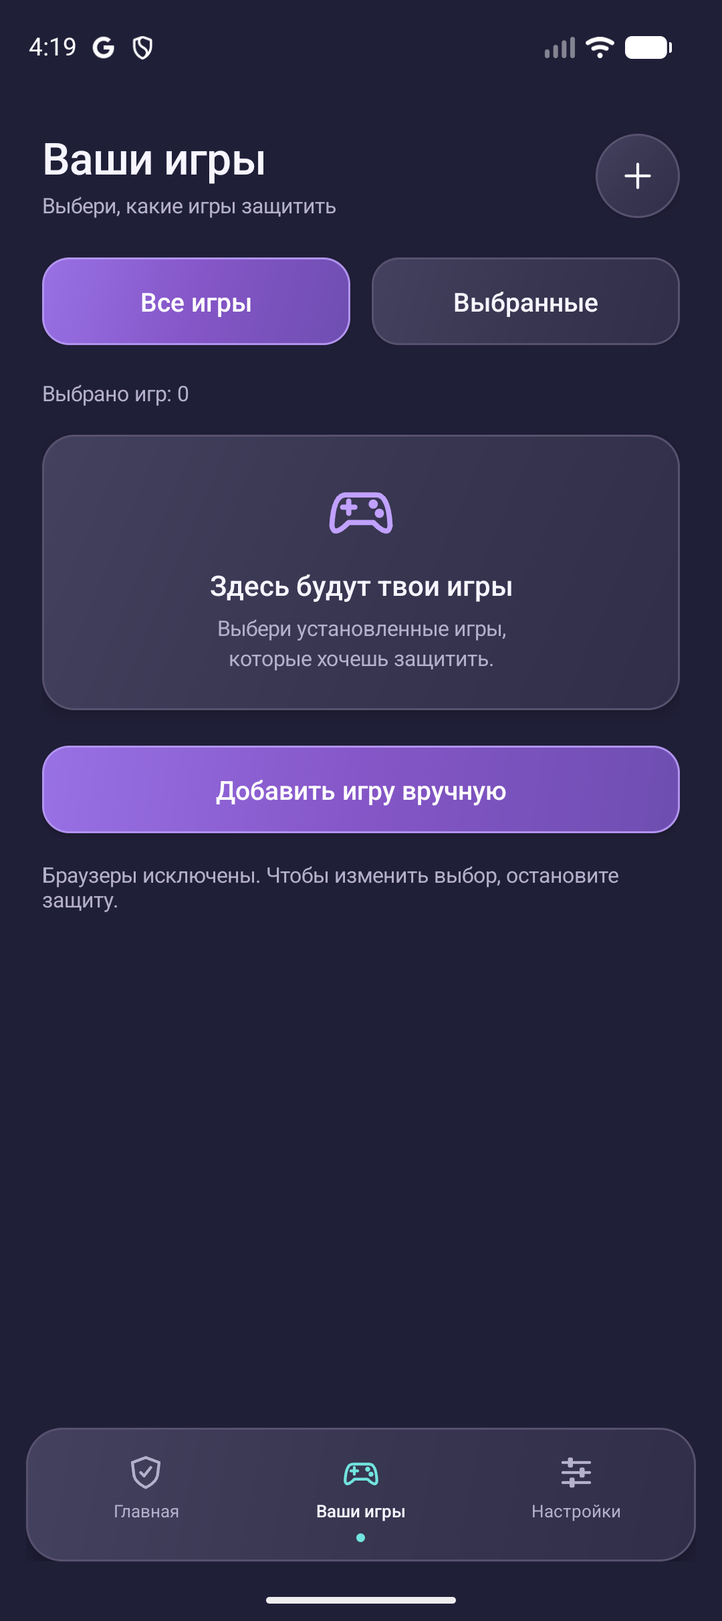
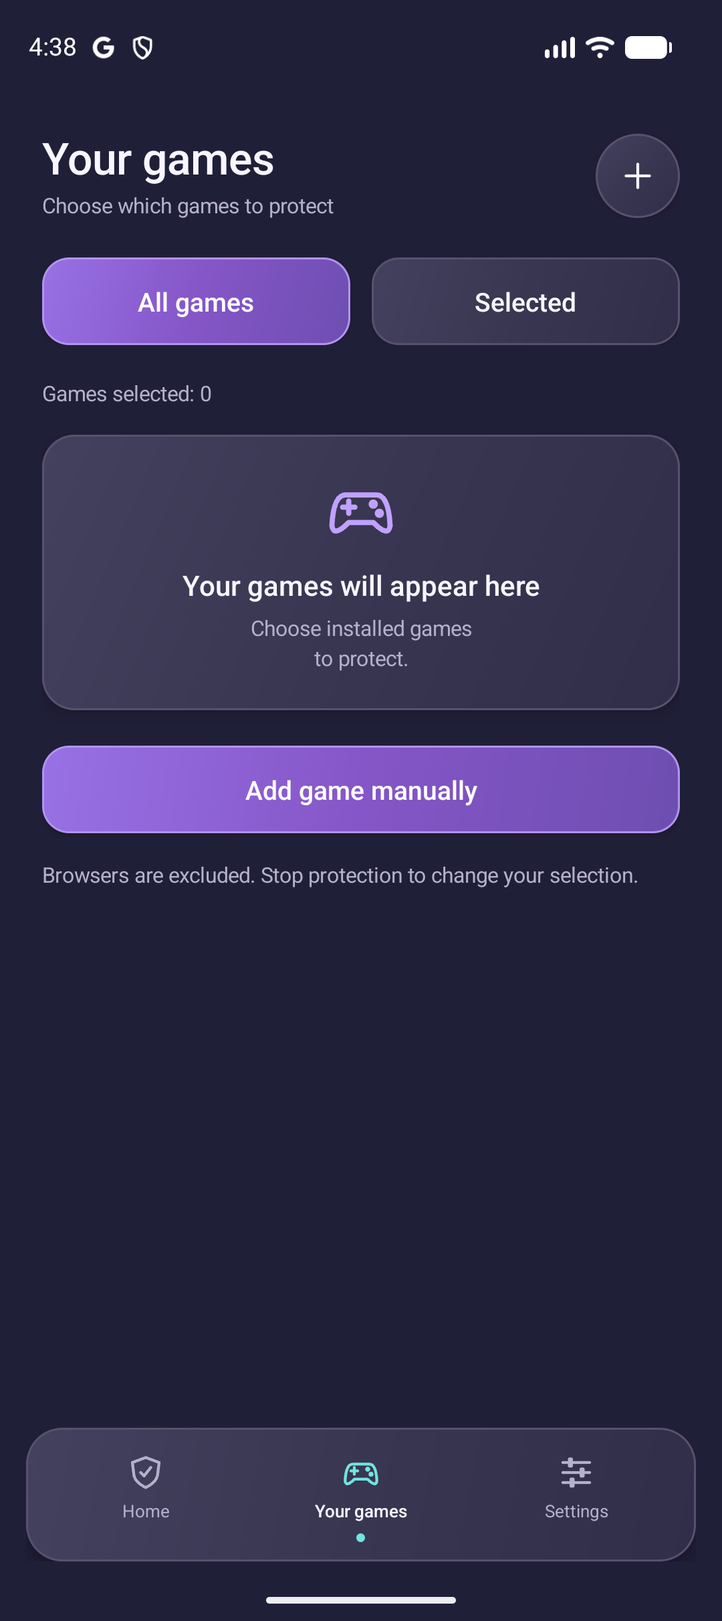
Add English and Russian localization with Android language support

diff --git a/app/src/main/java/com/skensel/stopad/AdVpnService.java b/app/src/main/java/com/skensel/stopad/AdVpnService.java
@@ -40,29 +40,29 @@ public final class AdVpnService extends VpnService {
         try {
             startForeground(1, notification(false));
             Set<String> games = GameCatalog.selected(this);
-            if (games.isEmpty()) throw new IOException("Сначала выберите хотя бы одну установленную игру");
-            if (VpnService.prepare(this) != null) throw new IOException("Нужно разрешение Android на VPN");
+            if (games.isEmpty()) throw new IOException(getString(R.string.vpn_no_games));
+            if (VpnService.prepare(this) != null) throw new IOException(getString(R.string.vpn_permission_required));
             var cm = (ConnectivityManager) getSystemService(CONNECTIVITY_SERVICE);
             Network network = cm.getActiveNetwork();
-            if (network == null) throw new IOException("Нет подключения к сети");
+            if (network == null) throw new IOException(getString(R.string.vpn_no_network));
             var link = cm.getLinkProperties(network);
             if (Build.VERSION.SDK_INT >= 28 && link != null && link.isPrivateDnsActive())
-                throw new IOException("Для DNS-прототипа выключите Private DNS в настройках Android");
+                throw new IOException(getString(R.string.vpn_private_dns));
             BlocklistSnapshot list = BlocklistRepository.snapshot;
             if (list == null) {
                 BlocklistRepository.initialize(this);
-                throw new IOException("Список блокировки загружается. Повторите включение через несколько секунд");
+                throw new IOException(getString(R.string.vpn_list_loading));
             }
             DomainPolicy rules = new DomainPolicy(list.rules, BlocklistRepository.seed(this),
                     getSharedPreferences("games", MODE_PRIVATE).getStringSet("domain_exceptions", Collections.emptySet()));
-            Builder builder = new Builder().setSession("StopAD • игры")
+            Builder builder = new Builder().setSession(getString(R.string.vpn_session))
                     .addAddress("10.111.0.1", 32).addDnsServer("10.111.0.2")
                     .addRoute("10.111.0.2", 32).allowFamily(OsConstants.AF_INET6)
                     .setMtu(1500).setBlocking(false).setUnderlyingNetworks(new Network[]{network})
                     .setConfigureIntent(PendingIntent.getActivity(this, 0, new Intent(this, MainActivity.class), PendingIntent.FLAG_IMMUTABLE));
             for (String game : games) builder.addAllowedApplication(game);
             ParcelFileDescriptor tunnel = builder.establish();
-            if (tunnel == null) throw new IOException("Android не создал VPN-интерфейс");
+            if (tunnel == null) throw new IOException(getString(R.string.vpn_establish_failed));
             Session session;
             try { session = new Session(tunnel, rules, network, list.sha256, this); }
             catch (IOException e) { tunnel.close(); throw e; }
@@ -72,7 +72,7 @@ public final class AdVpnService extends VpnService {
             getSystemService(NotificationManager.class).notify(1, notification(true));
             new Thread(() -> pump(session), "stopad-dns").start();
         } catch (Exception e) {
-            stopSession(e.getMessage() == null ? "Не удалось запустить VPN" : e.getMessage());
+            stopSession(e.getMessage() == null ? getString(R.string.start_failed) : e.getMessage());
             stopSelf();
         }
         return START_NOT_STICKY;
@@ -80,14 +80,14 @@ public final class AdVpnService extends VpnService {
 
     private Notification notification(boolean running) {
         NotificationManager manager = getSystemService(NotificationManager.class);
-        manager.createNotificationChannel(new NotificationChannel("protection", "Защита игр", NotificationManager.IMPORTANCE_LOW));
+        manager.createNotificationChannel(new NotificationChannel("protection", getString(R.string.ui_protection), NotificationManager.IMPORTANCE_LOW));
         PendingIntent open = PendingIntent.getActivity(this, 0, new Intent(this, MainActivity.class), PendingIntent.FLAG_IMMUTABLE);
         PendingIntent stop = PendingIntent.getService(this, 1, new Intent(this, AdVpnService.class).setAction(STOP), PendingIntent.FLAG_IMMUTABLE);
         return new Notification.Builder(this, "protection").setSmallIcon(R.drawable.ic_notification)
-                .setContentTitle(running ? "StopAD • фильтрация DNS игр" : "StopAD • запуск защиты")
-                .setContentText(running && !online() ? "Нет сети • ожидаем подключение" : "Браузеры исключены • нажмите, чтобы открыть")
+                .setContentTitle(running ? getString(R.string.vpn_notification_running) : getString(R.string.vpn_notification_starting))
+                .setContentText(running && !online() ? getString(R.string.waiting_network) : getString(R.string.vpn_notification_body))
                 .setContentIntent(open).setOngoing(true)
-                .addAction(new Notification.Action.Builder(null, "Остановить", stop).build()).build();
+                .addAction(new Notification.Action.Builder(null, getString(R.string.vpn_notification_stop), stop).build()).build();
     }
 
     private void pump(Session s) {
@@ -101,7 +101,7 @@ public final class AdVpnService extends VpnService {
                 if (s.closed.get()) break;
                 if (ready == 0) continue;
                 if ((poll.revents & (OsConstants.POLLERR | OsConstants.POLLHUP | OsConstants.POLLNVAL)) != 0)
-                    throw new IOException("VPN-интерфейс закрыт");
+                    throw new IOException(getString(R.string.vpn_interface_closed));
                 if ((poll.revents & OsConstants.POLLIN) == 0) continue;
                 int n = s.input.read(buffer);
                 if (n < 0) throw new EOFException();
@@ -120,7 +120,7 @@ public final class AdVpnService extends VpnService {
             }
         } catch (Exception e) {
             if (!s.closed.get()) main.post(() -> {
-                if (current == s) { stopSession("VPN остановлен из-за ошибки интерфейса"); stopSelf(); }
+                if (current == s) { stopSession(getString(R.string.vpn_interface_error)); stopSelf(); }
             });
         }
     }
@@ -150,7 +150,7 @@ public final class AdVpnService extends VpnService {
                 }
                 LinkProperties link = preferred == null ? null : cm.getLinkProperties(preferred);
                 if (Build.VERSION.SDK_INT >= 28 && link != null && link.isPrivateDnsActive()) {
-                    stopSession("Private DNS включён. Выключите его и запустите защиту снова"); stopSelf(); return;
+                    stopSession(getString(R.string.vpn_private_dns_enabled)); stopSelf(); return;
                 }
                 s.switchNetwork(preferred);
                 setUnderlyingNetworks(preferred == null ? new Network[0] : new Network[]{preferred});
@@ -215,7 +215,7 @@ public final class AdVpnService extends VpnService {
             if(tcpReply==null) s.send(packet.reply(response)); else tcpReply.accept(response);
         } catch (IOException | UncheckedIOException e) {
             if (!s.closed.get()) main.post(() -> {
-                if (current == s) { stopSession("Не удалось вернуть ответ DNS"); stopSelf(); }
+                if (current == s) { stopSession(getString(R.string.vpn_reply_failed)); stopSelf(); }
             });
         }
     }
@@ -231,7 +231,7 @@ public final class AdVpnService extends VpnService {
         if (s != null) s.close();
         stopForeground(STOP_FOREGROUND_REMOVE);
     }
-    @Override public void onRevoke() { main.post(() -> { stopSession("Разрешение VPN отозвано"); stopSelf(); }); }
+    @Override public void onRevoke() { main.post(() -> { stopSession(getString(R.string.vpn_revoked)); stopSelf(); }); }
     @Override public void onDestroy() { stopSession(message); super.onDestroy(); }
 
     static final class Session {

diff --git a/app/src/androidTest/java/com/skensel/stopad/LocalizationIntegration.java b/app/src/androidTest/java/com/skensel/stopad/LocalizationIntegration.java
@@ -1,0 +1,38 @@
+package com.skensel.stopad;
+
+import android.app.*;
+import android.content.*;
+import android.content.res.Configuration;
+import android.os.Bundle;
+import java.util.Locale;
+
+/** Real Android resource resolution, including unsupported-language fallback and format arguments. */
+final class LocalizationIntegration {
+    static void run(Instrumentation runner) {
+        Bundle result = new Bundle(); boolean ok = false;
+        try {
+            Context en = localized(runner.getTargetContext(), "en");
+            Context ru = localized(runner.getTargetContext(), "ru");
+            Context fallback = localized(runner.getTargetContext(), "de");
+            require(en.getString(R.string.ui_choose_games).equals("Choose games"), "English game-selection action missing");
+            require(ru.getString(R.string.ui_choose_games).equals("Выбрать игры"), "Russian game-selection action missing");
+            for (var field : R.string.class.getFields()) {
+                int id = field.getInt(null);
+                String english = en.getString(id);
+                require(!english.matches("(?s).*[А-Яа-яЁё].*"), "Russian text in English resource: " + field.getName());
+                require(fallback.getString(id).equals(english), "Unsupported-language fallback differs: " + field.getName());
+                require(!ru.getString(id).isBlank(), "Empty Russian resource: " + field.getName());
+            }
+            require(en.getString(R.string.stats, 2, 3, 1).contains("blocked 2"), "English formatted session counters");
+            require(ru.getString(R.string.stats, 2, 3, 1).contains("заблокировано 2"), "Russian formatted session counters");
+            result.putString("stream", "PASS: English/Russian resources, English fallback, formatted session counters\n"); ok = true;
+        } catch (Throwable error) { result.putString("stream", "FAIL: " + error + "\n"); }
+        runner.finish(ok ? Activity.RESULT_OK : Activity.RESULT_CANCELED, result);
+    }
+    private static Context localized(Context context, String language) {
+        Configuration config = new Configuration(context.getResources().getConfiguration());
+        config.setLocale(Locale.forLanguageTag(language));
+        return context.createConfigurationContext(config);
+    }
+    private static void require(boolean value, String message) { if (!value) throw new AssertionError(message); }
+}

diff --git a/app/src/androidTest/java/com/skensel/stopad/VpnIntegration.java b/app/src/androidTest/java/com/skensel/stopad/VpnIntegration.java
@@ -14,9 +14,9 @@ import java.util.concurrent.*;
 /** Run only with the isolated emulator probes installed. No production backdoor or exported test API. */
 public final class VpnIntegration extends Instrumentation {
     private Context context;
-    private boolean networkTests, listTests, uiTests, lifecycleTests, largeFontTests;
+    private boolean localizationTests, networkTests, listTests, uiTests, lifecycleTests, largeFontTests;
     private final String game = "com.skensel.stopad.probe.game", browser = "com.skensel.stopad.probe.browser", manualGame = "com.skensel.stopad.probe.manual";
-    @Override public void onCreate(Bundle arguments) { super.onCreate(arguments); largeFontTests=arguments!=null && "true".equals(arguments.getString("largeFonts")); lifecycleTests = arguments != null && "true".equals(arguments.getString("lifecycleTests")); uiTests = arguments != null && "true".equals(arguments.getString("uiTests")); listTests = arguments != null && "true".equals(arguments.getString("listTests")); networkTests = arguments != null && "true".equals(arguments.getString("networkTests")); start(); }
+    @Override public void onCreate(Bundle arguments) { super.onCreate(arguments); localizationTests=arguments!=null && "true".equals(arguments.getString("localizationTests")); largeFontTests=arguments!=null && "true".equals(arguments.getString("largeFonts")); lifecycleTests = arguments != null && "true".equals(arguments.getString("lifecycleTests")); uiTests = arguments != null && "true".equals(arguments.getString("uiTests")); listTests = arguments != null && "true".equals(arguments.getString("listTests")); networkTests = arguments != null && "true".equals(arguments.getString("networkTests")); start(); }
     @Override public void callActivityOnCreate(Activity activity, Bundle state) {
         if (uiTests) {
             activity.setTurnScreenOn(true); activity.setShowWhenLocked(true);
@@ -25,6 +25,7 @@ public final class VpnIntegration extends Instrumentation {
         super.callActivityOnCreate(activity, state);
     }
     @Override public void onStart() {
+        if (localizationTests) { LocalizationIntegration.run(this); return; }
         if (uiTests) { new UiIntegration(this).run(largeFontTests); return; }
         if (listTests) { new ListIntegration(this).run(); return; }
         Bundle result = new Bundle();

diff --git a/app/src/main/java/com/skensel/stopad/MainActivity.java b/app/src/main/java/com/skensel/stopad/MainActivity.java
@@ -239,7 +239,7 @@ public final class MainActivity extends Activity {
         try { startActivity(new Intent(android.provider.Settings.ACTION_WIRELESS_SETTINGS)); }
         catch (ActivityNotFoundException e) { startActivity(new Intent(android.provider.Settings.ACTION_SETTINGS)); }
     }
-    private String number(long value) { return java.text.NumberFormat.getIntegerInstance(new Locale("ru")).format(value); }
+    private String number(long value) { return java.text.NumberFormat.getIntegerInstance(getResources().getConfiguration().getLocales().get(0)).format(value); }
     private void showStats() {
         new AlertDialog.Builder(this).setTitle(R.string.ui_session_title)
                 .setMessage(AdVpnService.active() ? getString(R.string.stats, AdVpnService.blocked(), AdVpnService.forwarded(), AdVpnService.failed()) : getString(R.string.session_empty))
@@ -275,7 +275,7 @@ public final class MainActivity extends Activity {
         }
         if (listStatus != null) {
             String detail = snapshot == null ? getString(R.string.list_loading) : getString(R.string.ui_list_detail,
-                    number(snapshot.domains.size()), snapshot.sha256.substring(0, 12), java.text.DateFormat.getDateTimeInstance(java.text.DateFormat.SHORT, java.text.DateFormat.SHORT, new Locale("ru")).format(new Date(snapshot.fetchedAt)));
+                    number(snapshot.domains.size()), snapshot.sha256.substring(0, 12), java.text.DateFormat.getDateTimeInstance(java.text.DateFormat.SHORT, java.text.DateFormat.SHORT, getResources().getConfiguration().getLocales().get(0)).format(new Date(snapshot.fetchedAt)));
             if (BlocklistRepository.busy && snapshot != null) detail += "\n\n" + getString(R.string.list_updating);
             else if (!BlocklistRepository.message.isEmpty()) detail += "\n\n" + BlocklistRepository.message;
             AdVpnService.Session session = AdVpnService.current;

diff --git a/app/src/androidTest/java/com/skensel/stopad/ListIntegration.java b/app/src/androidTest/java/com/skensel/stopad/ListIntegration.java
@@ -34,7 +34,7 @@ final class ListIntegration {
             require(original != null && original.domains.size() > 100000, "Bundled list ready");
             long before = SystemClock.elapsedRealtime();
             BlocklistRepository.update(context); awaitIdle();
-            require(BlocklistRepository.message.contains("актуален") || BlocklistRepository.message.contains("обновлён"), "Fixed HTTPS source: " + BlocklistRepository.message);
+            require(BlocklistRepository.message.equals(context.getString(R.string.list_current)) || BlocklistRepository.message.equals(context.getString(R.string.list_updated)), "Fixed HTTPS source: " + BlocklistRepository.message);
             BlocklistSnapshot good = BlocklistRepository.snapshot;
             require(new BlocklistStore(context.getNoBackupFilesDir().toPath()).load().sha256.equals(good.sha256), "Persisted downloaded snapshot");
             byte[] goodCache = read(target);
@@ -44,7 +44,7 @@ final class ListIntegration {
                     () -> fixture(600)}) {
                 BlocklistRepository.update(context, failure); awaitIdle();
                 require(BlocklistRepository.snapshot == good && Arrays.equals(goodCache, read(target)), "Previous list retained after rejected update");
-                require(BlocklistRepository.message.contains("не удалось"), "Failure visible to UI");
+                require(BlocklistRepository.message.equals(context.getString(R.string.list_update_failed)), "Failure visible to UI");
             }
             Files.write(target, new byte[]{1, 2, 3});
             Properties metadata = new Properties();

diff --git a/app/src/main/java/com/skensel/stopad/BlocklistRepository.java b/app/src/main/java/com/skensel/stopad/BlocklistRepository.java
@@ -28,7 +28,7 @@ final class BlocklistRepository {
                 try { store(app).cleanupStaging(); } catch (IOException ignored) { }
                 snapshot = load(app);
             }
-            catch (IOException e) { message = "Не удалось прочитать список блокировки"; }
+            catch (IOException e) { message = app.getString(R.string.list_read_failed); }
             finally { busy = false; }
         });
     }
@@ -47,8 +47,8 @@ final class BlocklistRepository {
                 if (next.domains.size() < previous.domains.size() / 2) throw new IOException("Unexpected list shrink");
                 store(app).install(next);
                 snapshot = next;
-                message = previous.sha256.equals(next.sha256) ? "Список уже актуален" : "Список обновлён. Применится при следующем включении защиты";
-            } catch (IOException e) { message = "Обновление не удалось. Прежний список сохранён"; }
+                message = previous.sha256.equals(next.sha256) ? app.getString(R.string.list_current) : app.getString(R.string.list_updated);
+            } catch (IOException e) { message = app.getString(R.string.list_update_failed); }
             finally { busy = false; }
         });
     }

diff --git a/app/src/main/java/com/skensel/stopad/DomainPolicy.java b/app/src/main/java/com/skensel/stopad/DomainPolicy.java
@@ -20,15 +20,15 @@ final class DomainPolicy {
     }
     static Set<String> parseExceptions(String text) {
         Set<String> domains = new TreeSet<>();
-        if (text.length() > 65536) throw new IllegalArgumentException("Слишком длинный список");
+        if (text.length() > 65536) throw new IllegalArgumentException("Exception list is too long");
         for (String raw : text.split("\\R")) {
             raw = raw.trim(); if (raw.isEmpty()) continue;
             if (raw.endsWith(".")) raw = raw.substring(0, raw.length() - 1);
             String name = IDN.toASCII(raw, IDN.USE_STD3_ASCII_RULES).toLowerCase(Locale.ROOT);
             if (name.length() > 253 || !name.contains(".") || name.matches("[0-9.]+"))
-                throw new IllegalArgumentException("Нужен домен, например ads.example.com");
+                throw new IllegalArgumentException("A domain is required, for example ads.example.com");
             domains.add(name);
-            if (domains.size() > 256) throw new IllegalArgumentException("Максимум 256 доменов");
+            if (domains.size() > 256) throw new IllegalArgumentException("Maximum 256 domains");
         }
         return domains;
     }

diff --git a/app/src/androidTest/java/com/skensel/stopad/UiIntegration.java b/app/src/androidTest/java/com/skensel/stopad/UiIntegration.java
@@ -52,8 +52,8 @@ final class UiIntegration {
                 });
             }
             capture("games");
-            click(activity, "Настройки"); capture("settings");
-            click(activity, "Главная"); capture("home");
+            click(activity, activity.getString(R.string.ui_settings)); capture("settings");
+            click(activity, activity.getString(R.string.ui_home)); capture("home");
             if (AdVpnService.active()) throw new AssertionError("Navigation must not start VPN");
             result.putString("stream", "PASS: home, games, settings navigation and empty-selection action; VPN remains off; screenshots saved"+(largeFonts?"; 160% text without clipping":"")+"\n");
             ok = true;

diff --git a/docs/USER_GUIDE.md b/docs/USER_GUIDE.md
@@ -2,7 +2,7 @@
 
 StopAD filters DNS requests from games you select. It runs locally through Android's VPN API and does not filter browsers. It does not guarantee that all ads will disappear.
 
-The current APK uses Russian interface labels. English translations are included below. Screenshots show the actual app on an Android emulator, with no games selected; they do not show an active VPN or claim successful blocking.
+StopAD supports English and Russian. It follows the Android language, with English as the fallback for unsupported languages. On Android 13 or newer, you can choose English or Russian under Android Settings → Apps → StopAD → Language (the exact path varies by device). On Android 8–12, change the device language. Screenshots below show the English interface on an Android emulator, with no games selected; they do not show an active VPN or claim successful blocking.
 
 ## 1. Install the APK
 
@@ -15,42 +15,42 @@ Optional integrity check: compare the APK's SHA-256 with `SHA256SUMS.txt` attach
 
 ## 2. Select games
 
-On Home, tap **Выбрать игры** (Choose games), or open **Ваши игры** (Your games) in the bottom navigation.
+On Home, tap **Choose games**, or open **Your games** in the bottom navigation.
 
 <img src="images/games.png" alt="Game selection screen" width="320">
 
-Select the checkbox on each game you want to filter. **Все игры** means All games; **Выбранные** means Selected. If an installed game is missing, use **Добавить игру вручную** (Add game manually) and search by name or package. Browser apps are excluded, including from manual selection.
+Select the checkbox on each game you want to filter. Use **All games** or **Selected** to filter the catalog. If an installed game is missing, use **Add game manually** and search by name or package. Browser apps are excluded, including from manual selection.
 
 The emulator shown above has no eligible games, so it displays the empty state. Your installed games will appear here. Stop protection before changing the selection. StopAD will not establish a VPN with an empty selection.
 
 ## 3. Start protection
 
-Return to **Главная** (Home).
+Return to **Home**.
 
 <img src="images/home.png" alt="Home screen with protection off" width="320">
 
 1. If the app asks for DNS setup, open Android network settings and turn **Private DNS** off for this version of StopAD. Return to the app. StopAD does not change that setting automatically.
-2. Tap **Включить защиту игр** (Start game protection).
+2. Tap **Start game protection**.
 3. Accept Android's VPN connection request if you want to proceed. Declining leaves protection off.
-4. Wait for **Включена** (On). **Выключена** means Off; **Ожидание сети** means Waiting for network. Only the On state with a network connection indicates that the engine is ready to process requests.
+4. Wait for **On**. **Off** means protection is stopped; **Waiting for network** means the VPN has no network connection. Only the On state with a network connection indicates that the engine is ready to process requests.
 5. Open a selected game and use it normally.
 
-The persistent VPN notification provides a stop action. You can also stop protection from Home with **Выключить защиту** (Stop protection). Protection does not automatically resume after a device reboot; open StopAD and start it again.
+The persistent VPN notification provides a stop action. You can also stop protection from Home with **Stop protection**. Protection does not automatically resume after a device reboot; open StopAD and start it again.
 
 The blocked-request count measures DNS requests, not ads removed. A dash means no active session; the domain count is the size of the filtering list, not a measure of blocking success.
 
 ## 4. Update the list and manage exceptions
 
-Open **Настройки** (Settings).
+Open **Settings**.
 
 <img src="images/settings.png" alt="Settings screen" width="320">
 
-- **Обновить список** (Update list) downloads and validates the community list. If protection is already running, stop it and start it again to apply the new list.
-- **Источник и лицензия списка** (List source and license) displays attribution.
-- **Исключения доменов** (Domain exceptions) lets you allow domains while protection is off. Enter one domain per line, without `https://` or paths. Its subdomains are also allowed, across all selected games. Saving an empty list removes the exceptions.
-- **Возможности защиты** (Protection capabilities) explains filtering limits.
-- **Конфиденциальность** (Privacy) explains DNS handling.
-- **Статистика сеанса** (Session statistics) displays blocked, forwarded, and failed DNS requests for the current session.
+- **Update list** downloads and validates the community list. If protection is already running, stop it and start it again to apply the new list.
+- **List source and license** displays attribution.
+- **Domain exceptions** lets you allow domains while protection is off. Enter one domain per line, without `https://` or paths. Its subdomains are also allowed, across all selected games. Saving an empty list removes the exceptions.
+- **Protection capabilities** explains filtering limits.
+- **Privacy** explains DNS handling.
+- **Session statistics** displays blocked, forwarded, and failed DNS requests for the current session.
 
 ## 5. Update StopAD
 

diff --git a/docs/DEVELOPMENT.md b/docs/DEVELOPMENT.md
@@ -31,13 +31,14 @@ Run Android checks only on an isolated emulator, with any existing StopAD VPN st
 
 ```sh
 tools/check-emulator.sh emulator-5554 --ui
+tools/check-emulator.sh emulator-5554 --locales
 tools/check-emulator.sh emulator-5554 --ui-large
 tools/check-emulator.sh emulator-5554 --network
 tools/check-emulator.sh emulator-5554 --lists
 tools/check-emulator.sh emulator-5554 --lifecycle
 ```
 
-UI checks cover navigation and empty-selection handling; `--ui-large` uses 160% text and restores the scale. Other modes install test probes and temporarily grant VPN consent in the emulator. Network checks temporarily change Wi-Fi and Private DNS settings; list tests include a real HTTPS download. The runner restores settings and removes test packages it added. Android probes require API 29+; the app itself supports API 26+.
+`--locales` checks English/Russian resources, formatted counters, and English fallback for unsupported languages. UI checks cover navigation and empty-selection handling; `--ui-large` uses 160% text and restores the scale. Other modes install test probes and temporarily grant VPN consent in the emulator. Network checks temporarily change Wi-Fi and Private DNS settings; list tests include a real HTTPS download. The runner restores settings and removes test packages it added. Android probes require API 29+; the app itself supports API 26+.
 
 These checks do not prove compatibility with every game, manufacturer battery policy, or prolonged Doze state.
 
@@ -61,7 +62,7 @@ The script verifies the APK signature against the pinned public certificate and 
 | Path | Purpose |
 | --- | --- |
 | `app/src/main/java/` | Native Android UI, per-game VPN, DNS and list logic |
-| `app/src/main/res/` | UI strings, theme and icons; current UI language is Russian |
+| `app/src/main/res/` | UI strings, theme and icons; English default resources and Russian translations |
 | `app/src/main/assets/` | Bundled blocklist, integrity metadata and third-party notices |
 | `app/src/androidTest/` | Android instrumentation checks |
 | `tools/` | Core checks, release scripts and isolated test probes |

diff --git a/README.md b/README.md
@@ -10,7 +10,7 @@ Android DNS filtering for selected games, using a local VPN. Browsers are exclud
 2. Download `StopAD-<version>.apk` from **Assets** and open it. Allow installation from that source if Android asks.
 3. Select your games, start protection, and accept the Android VPN prompt.
 
-See the [illustrated guide](docs/USER_GUIDE.md) for setup, controls, updates, and troubleshooting. The current app interface is in Russian; the guide provides English translations of the controls.
+See the [illustrated guide](docs/USER_GUIDE.md) for setup, controls, updates, and troubleshooting. The app supports English and Russian. It follows your Android language; Android 13+ also supports a per-app language choice in system settings.
 
 <img src="docs/images/home.png" alt="StopAD Home screen with protection off" width="320">
 

diff --git a/CHANGELOG.md b/CHANGELOG.md
@@ -1,5 +1,13 @@
 # Changelog
 
+## 0.6.2
+
+- Added English and Russian interfaces, including VPN notifications, startup errors and blocklist update messages.
+- Follow the Android language, with English fallback for other languages.
+- Added Android 13+ per-app language support through system settings.
+- Format numbers and dates using the active interface locale.
+- Added Android localization checks and updated the illustrated guide with English screenshots.
+
 ## 0.6.1
 
 First public GitHub release.
